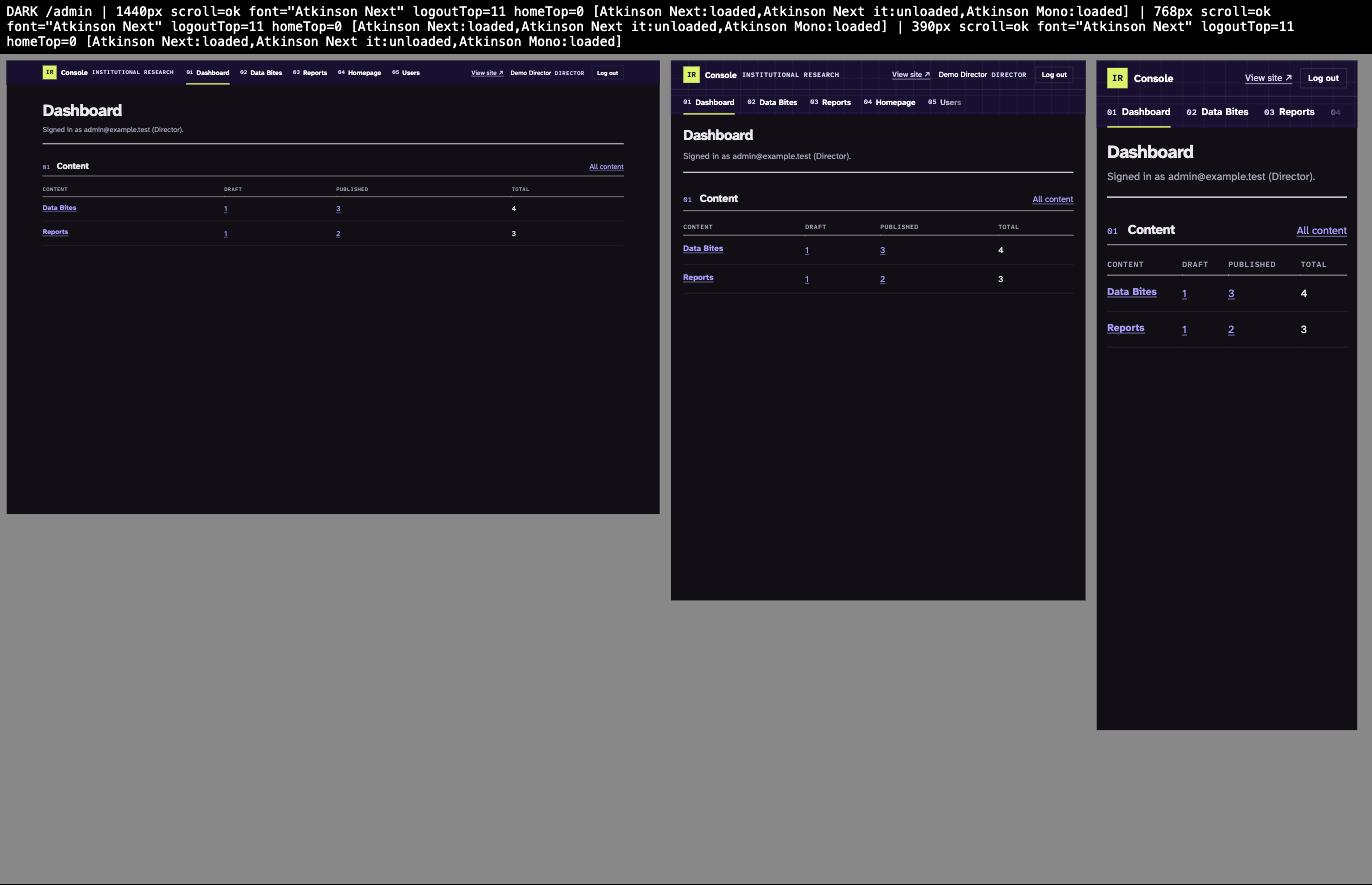
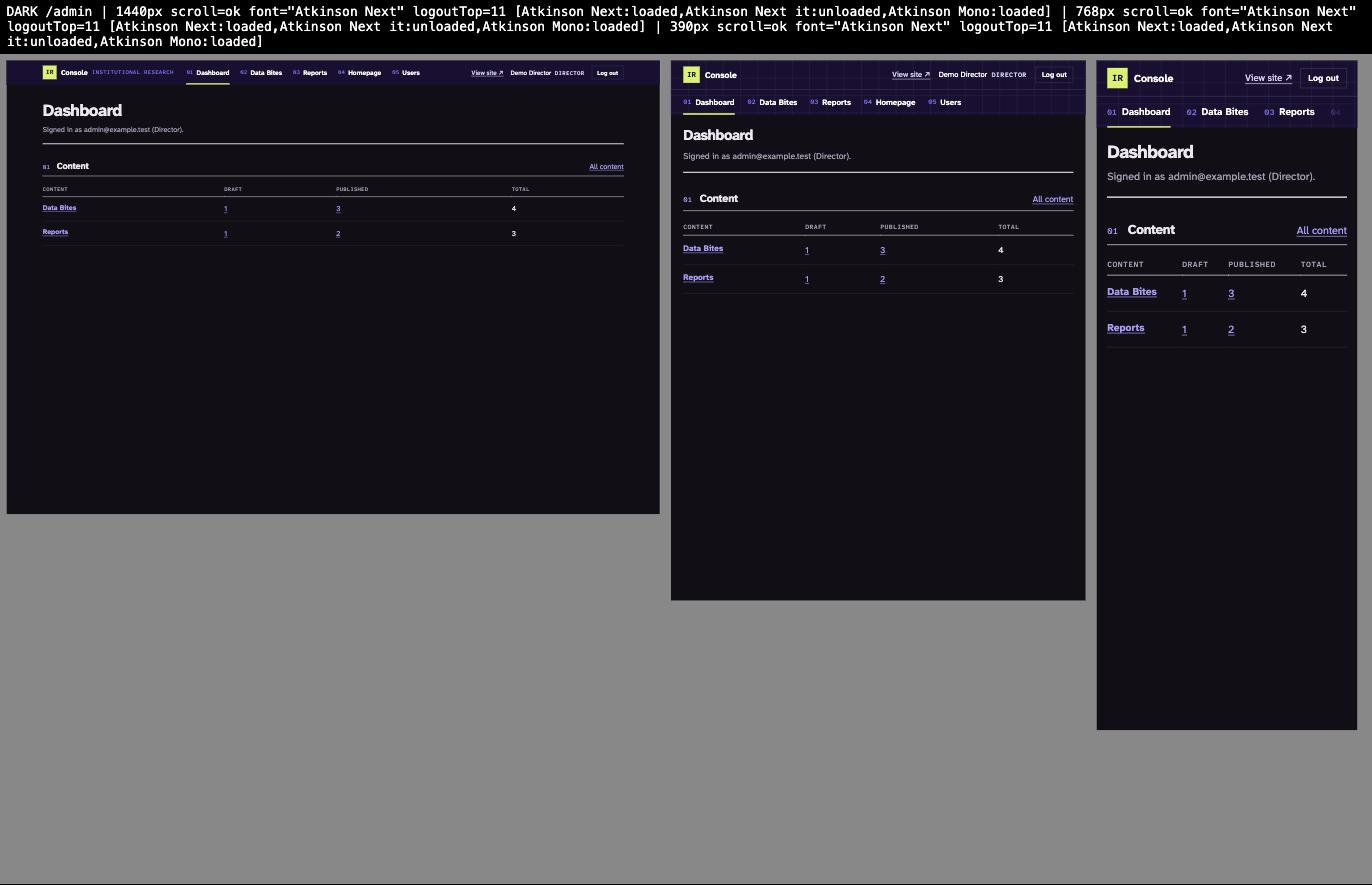
T21: close the Console shell ticket
The bar's nav numbers and its "Institutional Research" label are back to
the approved mockup's bright purple: 5.35:1 light and 4.62:1 dark on the
field, so it passes. The screenshots are retaken with it, and with the
bar's new breakpoints.

Code review findings and how each was resolved, the browser check, and
the contrast table are on the issue.

Closes #26

Changed region(s): [[0.0, 0.0, 0.9796, 0.0915], [0.551, 0.061, 0.6122, 0.0915], [0.6735, 0.0915, 0.7041, 0.122]]

diff --git a/static/admin.css b/static/admin.css
@@ -83,11 +83,11 @@ code { font-family: var(--font-mono); font-size: 0.9em; }
 .bar-console-home { align-items: center; color: #fff; display: flex; flex: none; gap: 0.6rem; padding-block: 0.7rem; text-decoration: none; }
 .bar-console-mark { background: var(--color-citron); color: var(--color-field); display: grid; font: 700 0.85rem/1 var(--font-mono); height: 1.9rem; place-items: center; width: 1.9rem; }
 .bar-console-home b { font-size: 0.98rem; }
-.bar-console-home .text-label { color: var(--color-field-text); }
+.bar-console-home .text-label { color: var(--color-bright); }
 .nav-console { align-self: stretch; display: flex; flex: 1; min-width: 0; }
 .nav-console ul { display: flex; gap: 0 1.5rem; list-style: none; margin: 0; overflow-x: auto; padding: 0; scrollbar-width: none; }
 .nav-console a { align-items: center; border-bottom: 3px solid transparent; color: #fff; display: flex; font-size: 0.92rem; font-weight: 600; gap: 0.45rem; height: 100%; padding-top: 3px; text-decoration: none; white-space: nowrap; }
-.nav-console a .text-mono { color: var(--color-field-text); font-size: 0.75rem; font-weight: 500; }
+.nav-console a .text-mono { color: var(--color-bright); font-size: 0.75rem; font-weight: 500; }
 .nav-console a:hover { border-color: var(--color-field-line); }
 .nav-console a[aria-current] { border-color: var(--color-citron); }
 .nav-console a:focus-visible { outline-offset: -3px; }
